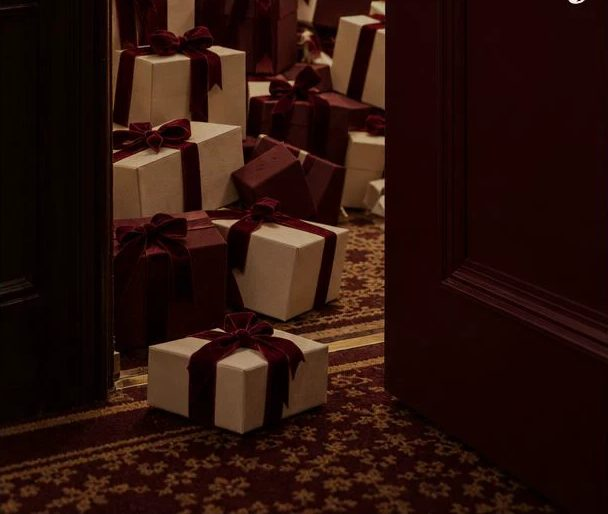
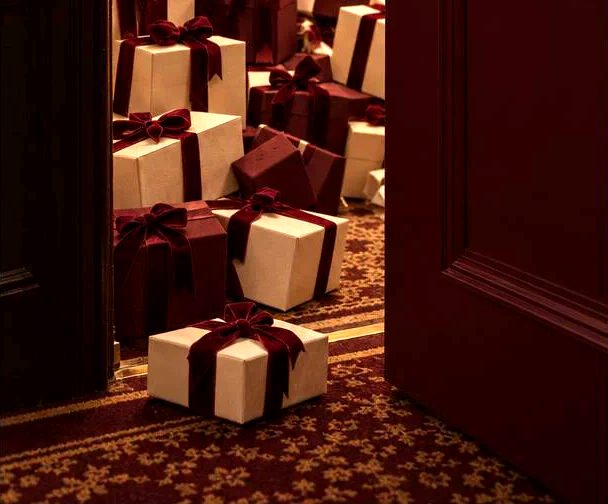
Lighten gift landing palette and brighten photos
Claude-Session: https://claude.ai/code/session_01BPdqjEjsnumDv1U37NNtFB

diff --git a/gifts/index.html b/gifts/index.html
@@ -6,7 +6,7 @@
 <title>Present Perfect</title>
 <meta name="claude:viewport-fit-sides" content="cover">
 <meta name="description" content="Подарочный консьерж. Подберём подарок, который запомнят: придумаем, найдём, упакуем и доставим. Для близких, клиентов и партнёров.">
-<meta name="theme-color" content="#0d0908">
+<meta name="theme-color" content="#2a1a18">
 <meta property="og:title" content="Present Perfect — подарок, который запомнят">
 <meta property="og:description" content="Придумаем, найдём, упакуем и доставим. Для близких, клиентов и партнёров.">
 <meta property="og:image" content="img/hero.jpg">
@@ -16,9 +16,10 @@
 <style>
 /* Hotel-lobby night: near-black ground, photographs in narrow frames like the posts, ivory serif type, gold hairlines */
 :root{
-  --ground:#0d0908; --ground-2:#160f0d; --wine:#5a1622; --wine-deep:#2c0a10;
-  --ivory:#f1e7da; --ivory-muted:rgba(241,231,218,.66); --sand:#ecd9bb; --gold:#c6a46d;
-  --line:rgba(198,164,109,.28); --on-sand:#2a0d12;
+  --ground:#2a1a18; --ground-2:#36211f; --wine:#6e1f2c; --wine-deep:#46131b;
+  --ivory:#f6ede2; --ivory-muted:rgba(246,237,226,.8); --sand:#ecd9bb; --gold:#c6a46d;
+  --line:rgba(214,182,128,.34); --on-sand:#2a0d12;
+  --cream:#efe5d8; --cream-ink:#4a1720; --cream-muted:#7d5f60; --cream-line:rgba(110,31,44,.2);
   --serif:"Playfair Display",Georgia,"Times New Roman",serif;
   --sans:-apple-system,BlinkMacSystemFont,"Segoe UI",Roboto,"Helvetica Neue",Arial,sans-serif;
   color-scheme:dark;
@@ -59,7 +60,7 @@ section{padding-block:80px}
 .divider svg{width:46px;height:25px;flex:none}
 
 /* header */
-header.top{position:sticky;top:env(safe-area-inset-top,0px);z-index:30;background:rgba(13,9,8,.86);backdrop-filter:blur(10px);-webkit-backdrop-filter:blur(10px);border-bottom:1px solid rgba(198,164,109,.14)}
+header.top{position:sticky;top:env(safe-area-inset-top,0px);z-index:30;background:rgba(42,26,24,.88);backdrop-filter:blur(10px);-webkit-backdrop-filter:blur(10px);border-bottom:1px solid rgba(198,164,109,.14)}
 header.top .wrap{display:flex;align-items:center;justify-content:space-between;gap:12px;min-height:62px}
 .logo{display:flex;align-items:center;gap:10px;text-decoration:none}
 .logo svg{width:36px;height:36px;flex:none}
@@ -74,8 +75,8 @@ nav.menu a:hover{color:var(--ivory)}
 .hero{position:relative;padding-block:96px 88px;overflow:hidden;isolation:isolate}
 .hero > img{position:absolute;inset:0;width:100%;height:100%;object-fit:cover;object-position:44% 50%;z-index:-2}
 @media(max-width:600px){.hero > img{object-position:40% 50%}}
-.hero::after{content:"";position:absolute;inset:0;z-index:-1;background:linear-gradient(180deg,rgba(13,9,8,.5) 0%,rgba(13,9,8,.38) 40%,rgba(13,9,8,.6) 70%,rgba(13,9,8,.96) 100%)}
-.hero h1{text-shadow:0 2px 30px rgba(0,0,0,.45)}
+.hero::after{content:"";position:absolute;inset:0;z-index:-1;background:linear-gradient(180deg,rgba(42,26,24,.45) 0%,rgba(42,26,24,.25) 40%,rgba(42,26,24,.5) 72%,rgba(42,26,24,.97) 100%)}
+.hero h1,.hero .lead,.hero .brand{text-shadow:0 1px 18px rgba(20,10,9,.85),0 0 4px rgba(20,10,9,.5)}
 .hero h1 em{display:block}
 .hero .lead{font-family:var(--serif);font-size:clamp(19px,3.6vw,24px);color:var(--ivory);line-height:1.4}
 @media(min-width:900px){.hero{padding-block:150px 130px}}
@@ -93,7 +94,7 @@ nav.menu a:hover{color:var(--ivory)}
 @media(min-width:760px){.posts{grid-template-columns:repeat(3,1fr)}}
 .post{position:relative;margin:0;border-radius:4px;overflow:hidden;background:var(--ground-2);aspect-ratio:4/5;max-width:100%}
 .post img{position:absolute;inset:0;width:100%;height:100%;object-fit:cover}
-.post::after{content:"";position:absolute;inset:0;background:linear-gradient(180deg,rgba(13,9,8,0) 35%,rgba(13,9,8,.9) 100%)}
+.post::after{content:"";position:absolute;inset:0;background:linear-gradient(180deg,rgba(42,26,24,0) 40%,rgba(42,26,24,.88) 100%)}
 .post figcaption{position:absolute;left:0;right:0;bottom:0;z-index:1;padding:22px}
 .post h3{margin:0 0 6px}
 .post p{margin:0;color:var(--ivory-muted);font-size:15px}
@@ -157,7 +158,7 @@ nav.menu a:hover{color:var(--ivory)}
 /* final */
 .final{position:relative;isolation:isolate;overflow:hidden}
 .final > img{position:absolute;inset:0;width:100%;height:100%;object-fit:cover;z-index:-2;object-position:50% 40%}
-.final::after{content:"";position:absolute;inset:0;z-index:-1;background:linear-gradient(180deg,rgba(13,9,8,.95),rgba(13,9,8,.7) 50%,rgba(13,9,8,.95))}
+.final::after{content:"";position:absolute;inset:0;z-index:-1;background:linear-gradient(180deg,rgba(42,26,24,.92),rgba(42,26,24,.55) 50%,rgba(42,26,24,.92))}
 .word{font-family:var(--serif);font-style:italic;color:var(--sand)}
 .mono{display:flex;flex-direction:column;align-items:center;gap:6px;margin-top:48px;color:var(--gold)}
 .mono b{font-family:var(--serif);font-style:italic;font-weight:400;font-size:44px;line-height:1;color:var(--sand);letter-spacing:-.06em}
@@ -168,10 +169,17 @@ footer .wrap{display:flex;flex-wrap:wrap;gap:10px 24px;justify-content:space-bet
 footer a{color:var(--sand)}
 
 /* sticky mobile cta */
-.sticky{position:fixed;left:0;right:0;bottom:0;z-index:40;padding:10px max(16px,env(safe-area-inset-right,0px)) calc(10px + env(safe-area-inset-bottom,0px)) max(16px,env(safe-area-inset-left,0px));background:linear-gradient(180deg,rgba(13,9,8,0),rgba(13,9,8,.94) 40%)}
+.sticky{position:fixed;left:0;right:0;bottom:0;z-index:40;padding:10px max(16px,env(safe-area-inset-right,0px)) calc(10px + env(safe-area-inset-bottom,0px)) max(16px,env(safe-area-inset-left,0px));background:linear-gradient(180deg,rgba(42,26,24,0),rgba(42,26,24,.94) 40%)}
 .sticky .btn{width:100%}
 @media(min-width:880px){.sticky{display:none}body{padding-bottom:0}}
 .alt{background:var(--ground-2)}
+/* cream section, as in the «Цены» story */
+.cream{background:var(--cream);color:var(--cream-ink)}
+.cream .brand{color:var(--cream-muted)}
+.cream h2 em{color:var(--wine)}
+.cream .price,.cream .row{border-color:var(--cream-line)}
+.cream .row .v{color:var(--wine)}
+.cream .row small,.cream .price-foot{color:var(--cream-muted)}
 @media(prefers-reduced-motion:reduce){html{scroll-behavior:auto}.btn{transition:none}}
 </style>
 </head>
@@ -316,7 +324,7 @@ footer a{color:var(--sand)}
   </div>
 </section>
 
-<section class="alt" id="prices">
+<section class="cream" id="prices">
   <div class="wrap">
     <div class="c">
       <span class="brand">Present Perfect</span>
